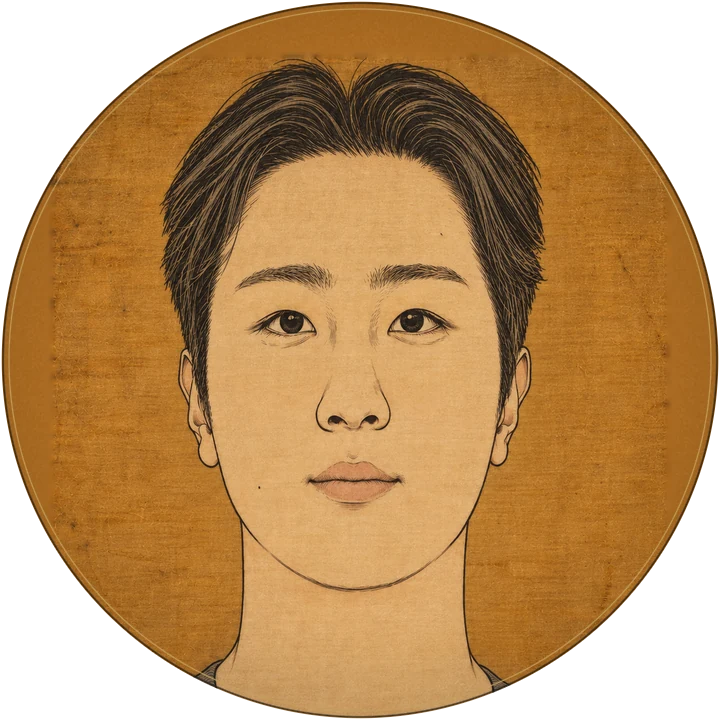
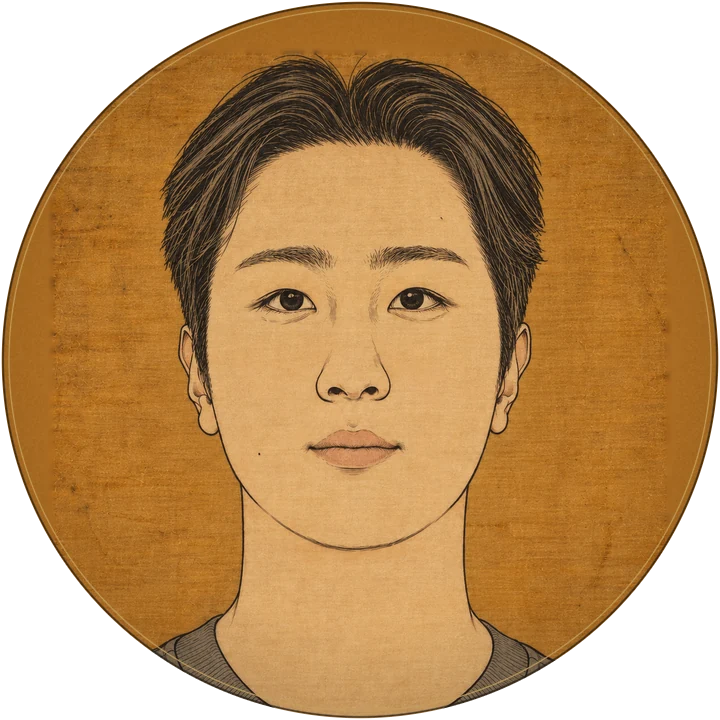
Fix stretched portraits and remove the ink strokes under headings
The round portrait frame was resizing a wider-than-tall crop into a square,
which stretched faces about 7% vertically. The crop now stays square.

diff --git a/index.html b/index.html
@@ -17,7 +17,7 @@
 <link rel="canonical" href="https://lab.kejunying.com/">
 <meta name="theme-color" content="#c0915b">
 <link rel="icon" href="assets/favicon.svg" type="image/svg+xml">
-<link rel="stylesheet" href="styles.css?v=20261014zf">
+<link rel="stylesheet" href="styles.css?v=20261014zg">
 <script>document.documentElement.classList.add('js');(function(){var a=new URLSearchParams(location.search).get('art');if(a!=='uk')document.documentElement.setAttribute('data-art','tang');})();</script>
 </head>
 <body>
@@ -172,13 +172,13 @@
     <h3 class="sub-h">Lab members</h3>
     <ul class="member-list">
       <li>
-        <img src="assets/img/tang-portrait-zirui.webp?v=t12" width="800" height="1000" loading="lazy" alt="Painted portrait of Wang Zirui.">
+        <img src="assets/img/tang-portrait-zirui.webp?v=t13" width="800" height="1000" loading="lazy" alt="Painted portrait of Wang Zirui.">
         <b>Wang Zirui</b>
         <span class="member-role">Visiting student</span>
         <p>Builds world models of human health.</p>
       </li>
       <li>
-        <img src="assets/img/tang-portrait-donghyun.webp?v=t12" width="800" height="1000" loading="lazy" alt="Painted portrait of Donghyun Lee." onerror="this.style.visibility='hidden'">
+        <img src="assets/img/tang-portrait-donghyun.webp?v=t13" width="800" height="1000" loading="lazy" alt="Painted portrait of Donghyun Lee." onerror="this.style.visibility='hidden'">
         <b>Donghyun Lee</b>
         <span class="member-role">Visiting student</span>
         <p>Studies protein structure across species.</p>
@@ -244,8 +244,8 @@
     </div>
   </div>
 </dialog>
-<script src="data.js?v=20261014zf"></script>
-<script src="main.js?v=20261014zf"></script>
-<script src="film.js?v=20261014zf"></script>
+<script src="data.js?v=20261014zg"></script>
+<script src="main.js?v=20261014zg"></script>
+<script src="film.js?v=20261014zg"></script>
 </body>
 </html>

diff --git a/main.js b/main.js
@@ -3,7 +3,7 @@
   // An alternate art series can be shown with ?art=tang; image names differ only by prefix.
   if (document.documentElement.getAttribute('data-art') === 'tang') {
     Array.prototype.forEach.call(document.querySelectorAll('img[src*="assets/img/uk-"], img[src*="assets/img/p-"]'), function (im) {
-      im.src = im.getAttribute('src').replace('assets/img/uk-', 'assets/img/tang-').replace('assets/img/p-', 'assets/img/p-tang-').replace(/\.webp(\?.*)?$/, '.webp?v=t12');
+      im.src = im.getAttribute('src').replace('assets/img/uk-', 'assets/img/tang-').replace('assets/img/p-', 'assets/img/p-tang-').replace(/\.webp(\?.*)?$/, '.webp?v=t13');
     });
   }
   var NS = 'http://www.w3.org/2000/svg';

diff --git a/styles.css b/styles.css
@@ -570,8 +570,4 @@ html[data-art="tang"] .pub-band { min-height: 0; }
 html[data-art="tang"] .pub-title { font-size: clamp(1.25rem, 1.7vw, 1.625rem); }
 @media (max-width: 760px) { html[data-art="tang"] .pub-list { grid-template-columns: 1fr; } }
 
-/* Ink: one brushed stroke under each section title */
-main section:not(.hero) > .wrap > h2::after, main section:not(.hero) > .wrap.two > h2::after, .pubs-head h2::after {
-  content: ""; display: block; width: clamp(120px, 14vw, 200px); height: 14px; margin-top: 14px;
-  background: url("assets/ink-stroke.svg") left center / 100% 100% no-repeat; opacity: 0.85;
-}
+
